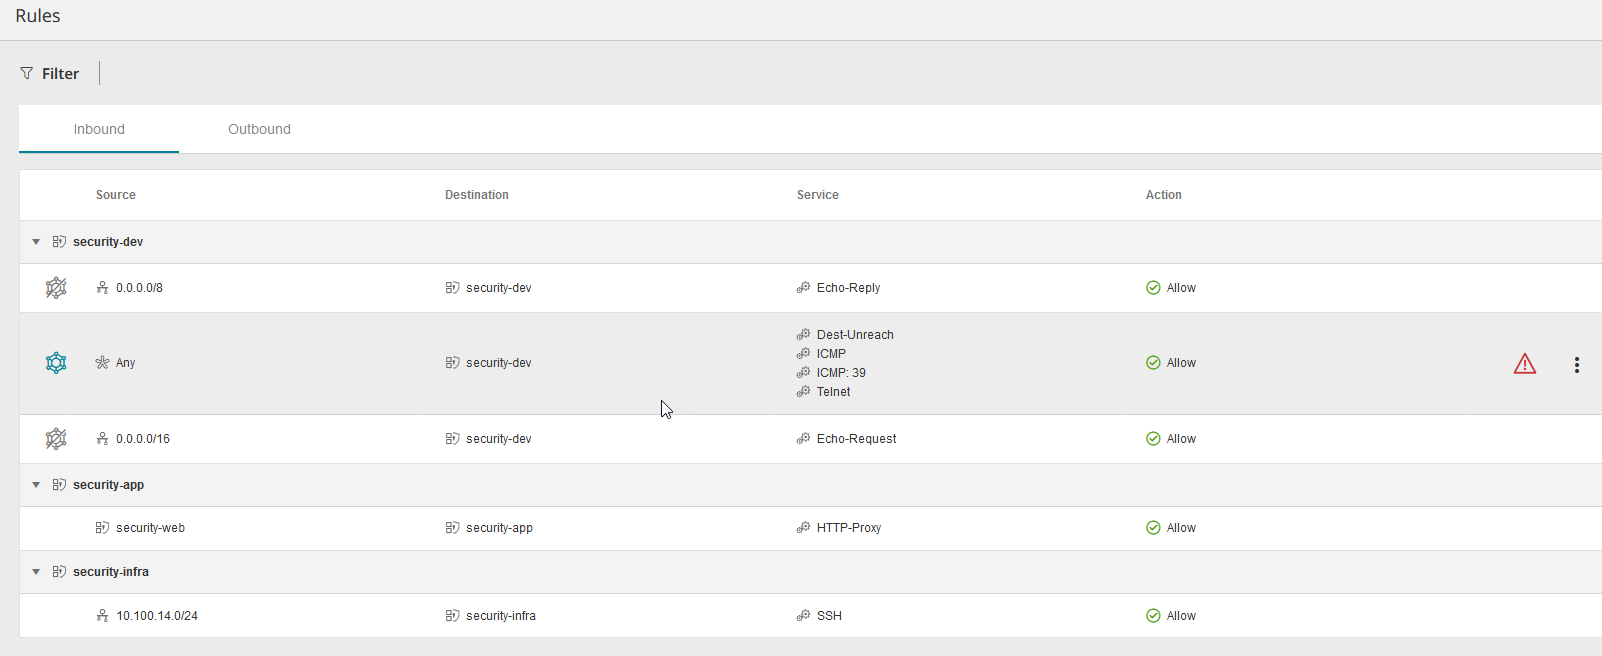
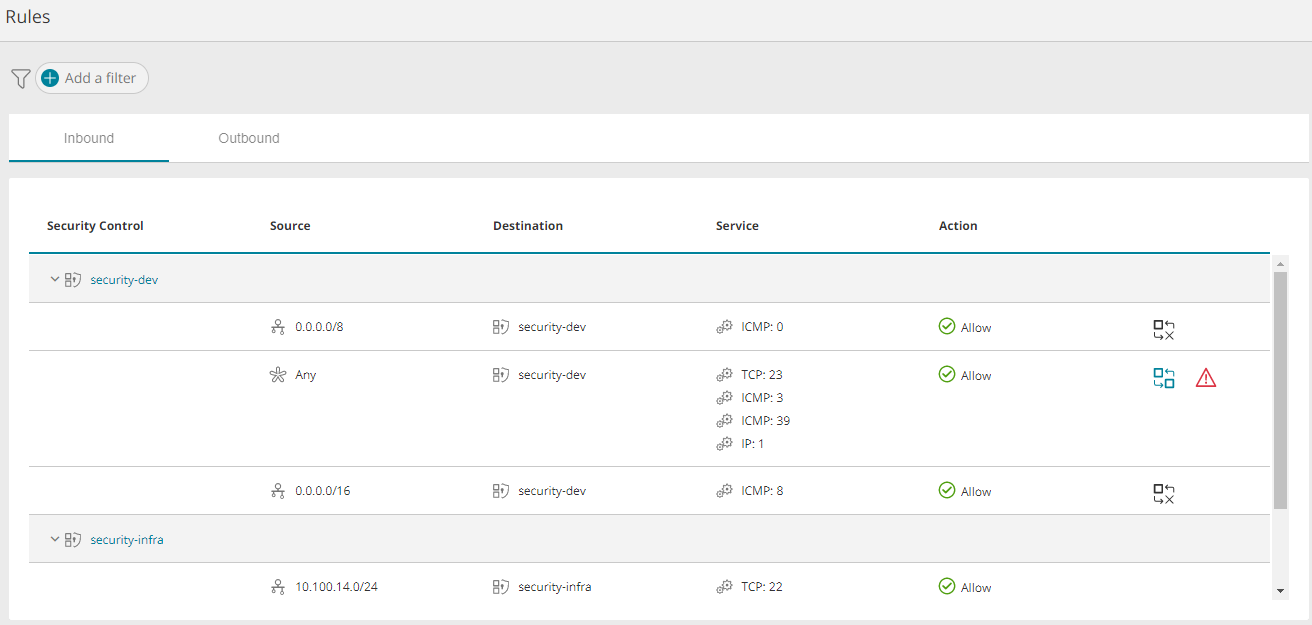
Fix / ORIS-1997 / Added new images and fixed column order

diff --git a/Content/PublicCloud/Assets.htm b/Content/PublicCloud/Assets.htm
@@ -87,7 +87,7 @@
         <p>
             <img src="../PublicCloud-Images/Screen_AssetRules.png" class="ThumbnailPopup" />
         </p>
-        <p>This screen can have 2 tabs - <span class="ScreenObject">Inbound</span> and <span class="ScreenObject">Outbound</span>; <span class="ScreenObject">OutBound</span> is shown only if relevant. </p>
+        <p>This screen can have two tabs - <span class="ScreenObject">Inbound</span> and <span class="ScreenObject">Outbound</span>; <span class="ScreenObject">OutBound</span> is shown only if relevant. </p>
         <p>Each line represents one rule and rules are grouped by the vendor security control in which they are defined. Each item in the list includes:</p>
         <table style="width: 100%;mc-table-style: url('../Resources/TableStyles/PatternedRows.css');" class="TableStyle-PatternedRows" cellspacing="0">
             <col class="TableStyle-PatternedRows-Column-Regular">
@@ -102,20 +102,11 @@
             </thead>
             <tbody>
                 <tr class="TableStyle-PatternedRows-Body-LightRows">
-                    <td class="TableStyle-PatternedRows-BodyE-Regular-LightRows">Effective Access Icon</td>
+                    <td class="TableStyle-PatternedRows-BodyE-Regular-LightRows">
+                        <p class="TableBodyText">Security Control</p>
+                    </td>
                     <td class="TableStyle-PatternedRows-BodyD-Regular-LightRows">
-                        <p>Indicates the access allowed when taking the physical network connectivity into account.</p>
-                        <ul>
-                            <li>No icon - access is possible as there is full network connectivity</li>
-                            <li>
-                                <img src="../SecureCloud-Images/Icon_EffectiveAccessNone.png" class="noborder" /> - access is prevented due to no network connectivity</li>
-                            <li>
-                                <p>
-                                    <img src="../SecureCloud-Images/Icon_EffectiveAccessPartial.png" class="noborder" /> - access is limited due to partial network connectivity. Click on this icon to display the effective access</p>
-                                <p>Example:</p>
-                                <p> <img src="../PublicCloud-Images/Window_AssetRuleEffectiveAccess.png" /></p>
-                            </li>
-                        </ul>
+                        <p class="TableBodyText">Cloud-vendor mechanisms that allow or restrict network traffic.</p>
                     </td>
                 </tr>
                 <tr class="TableStyle-PatternedRows-Body-DarkRows">
@@ -141,14 +132,32 @@
                     </td>
                 </tr>
                 <tr class="TableStyle-PatternedRows-Body-DarkRows">
-                    <td class="TableStyle-PatternedRows-BodyE-Regular-DarkRows">Warning</td>
+                    <td class="TableStyle-PatternedRows-BodyE-Regular-DarkRows">Effective Access Icon</td>
                     <td class="TableStyle-PatternedRows-BodyD-Regular-DarkRows">
-                        <img src="../SecureCloud-Images/Icon_Warning_Red.png" class="noborder" /> indicates a <a href="WhatIsCloudViolation.htm">violation</a></td>
+                        <p>Indicates the access allowed when considering the physical network connectivity.</p>
+                        <ul>
+                            <li>No icon - Access is possible as there is full network connectivity.</li>
+                            <li>
+                                <img src="../SecureCloud-Images/Icon_NoNetwork.png" class="noborder" /> - Access is prevented due to no network connectivity.</li>
+                            <li>
+                                <p>
+                                    <img src="../SecureCloud-Images/Icon_EffectiveAccess.png" class="noborder" /> - Access is limited due to partial network connectivity. Click this icon to display the effective access.</p>
+                                <p>Example:</p>
+                                <p> <img src="../PublicCloud-Images/Window_AssetRuleEffectiveAccess.png" /></p>
+                                <p>Click the pin icon to pin this panel. This is useful if you want to view the original configuration and the analysis/details together. </p>
+                            </li>
+                        </ul>
+                    </td>
                 </tr>
                 <tr class="TableStyle-PatternedRows-Body-LightRows">
-                    <td class="TableStyle-PatternedRows-BodyB-Regular-LightRows">
+                    <td class="TableStyle-PatternedRows-BodyE-Regular-LightRows">Warning</td>
+                    <td class="TableStyle-PatternedRows-BodyD-Regular-LightRows">
+                        <img src="../SecureCloud-Images/Icon_Warning_Red.png" class="noborder" /> indicates a <a href="WhatIsCloudViolation.htm">violation</a></td>
+                </tr>
+                <tr class="TableStyle-PatternedRows-Body-DarkRows">
+                    <td class="TableStyle-PatternedRows-BodyB-Regular-DarkRows">
                         <img src="../PublicCloud-Images/Icon_Ellipsis.png" class="noborder" /> Options</td>
-                    <td class="TableStyle-PatternedRows-BodyA-Regular-LightRows">
+                    <td class="TableStyle-PatternedRows-BodyA-Regular-DarkRows">
                         <p>Enabled only when warning icon shown above. Click on the options icon to view available options: </p>
                         <ul>
                             <li>Compare to policy - displays all policy rules pertaining to the asset, below the security access. The same policy details are shown as when clicking <a href="#AssetPolicy">Asset Policy</a>.</li>
